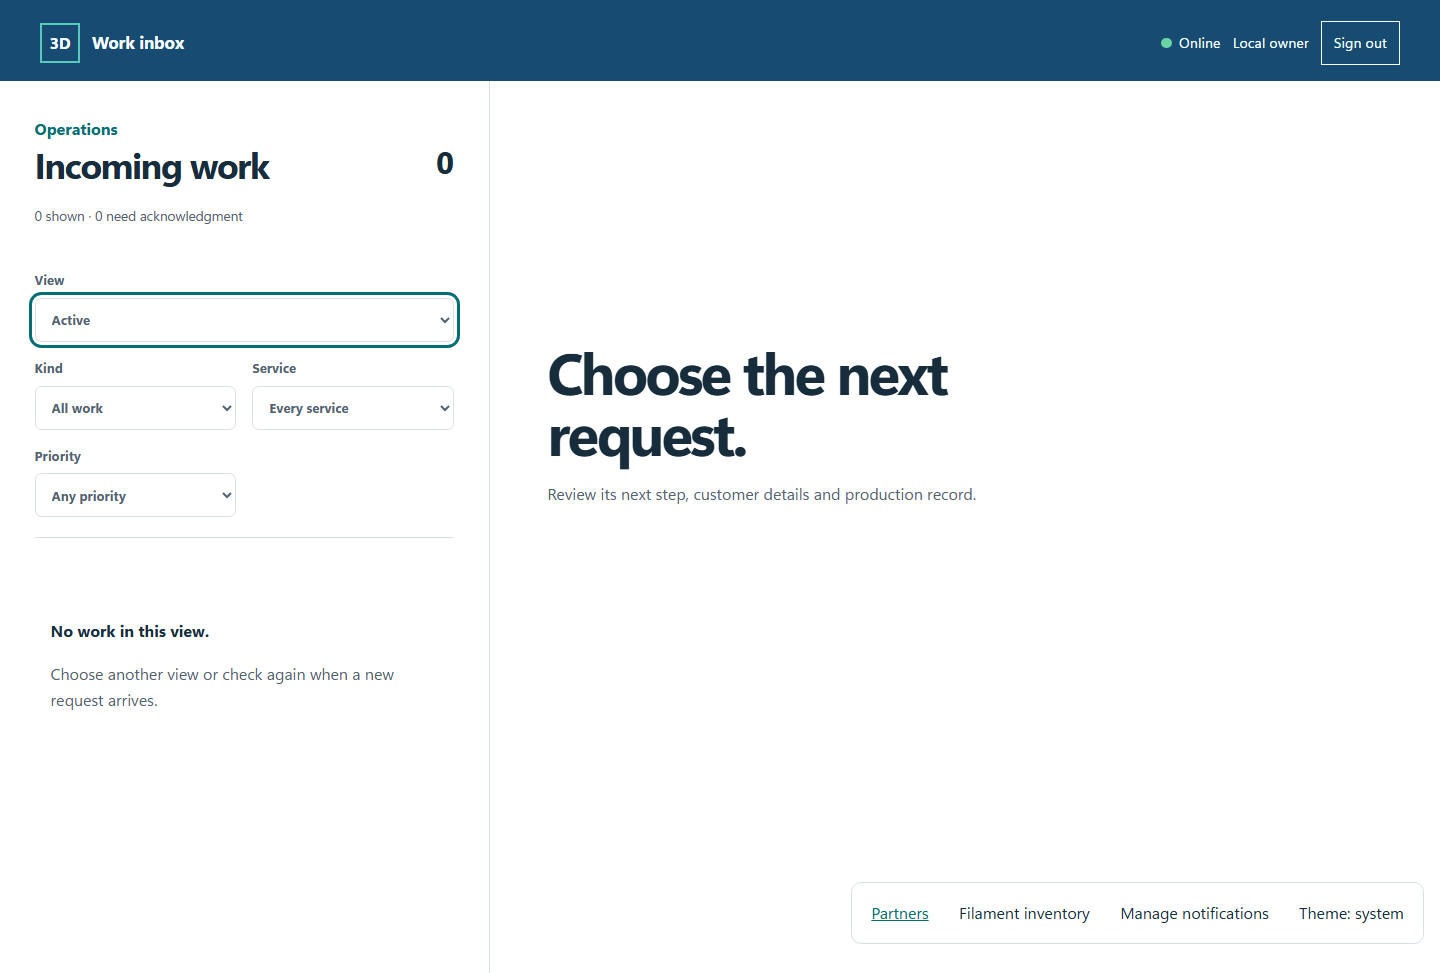
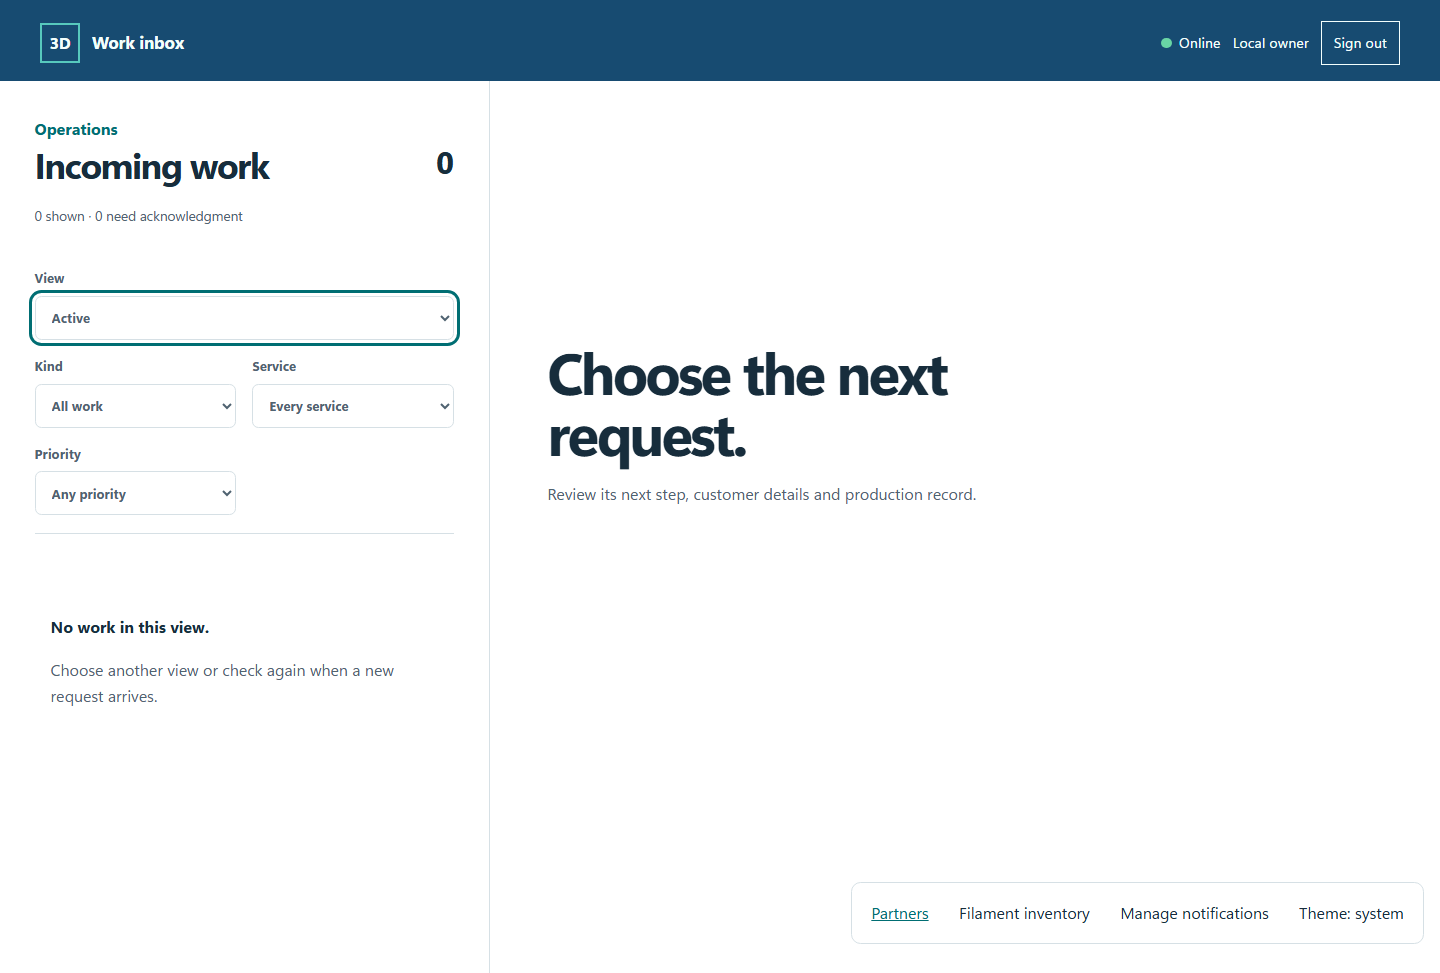
Keep work filters compact within the roomier portal layout

Changed region(s): [[0.0, 0.2775, 0.3125, 0.4317], [0.0312, 0.6166, 0.2812, 0.74], [0.0312, 0.4625, 0.1562, 0.555]]

diff --git a/operator/assets/operator.css b/operator/assets/operator.css
@@ -79,7 +79,7 @@ body{line-height:1.65}
 .topbar{padding-block:1rem;row-gap:.75rem}
 .queue{padding:clamp(1.25rem,2.4vw,2.5rem);padding-bottom:8rem}
 .queue-heading{gap:1.5rem}.queue-summary{margin-block:1rem 1.5rem;max-width:60ch}
-.filters{gap:1rem;padding-block:1.25rem;margin-bottom:1rem}
+.filters{gap:1rem;padding-block:1.125rem;margin-bottom:1rem}
 .filters label{line-height:1.5}.filters select{margin-top:.5rem;padding:.65rem .75rem;border-radius:var(--portal-radius)}
 .work-list li{padding-block:1.5rem}.work-row{gap:.5rem;padding:.25rem}.work-meta{line-height:1.6}
 .detail{padding:clamp(1.5rem,4vw,4.5rem);padding-bottom:8rem}

diff --git a/operator/qa-assets/operator.css b/operator/qa-assets/operator.css
@@ -79,7 +79,7 @@ body{line-height:1.65}
 .topbar{padding-block:1rem;row-gap:.75rem}
 .queue{padding:clamp(1.25rem,2.4vw,2.5rem);padding-bottom:8rem}
 .queue-heading{gap:1.5rem}.queue-summary{margin-block:1rem 1.5rem;max-width:60ch}
-.filters{gap:1rem;padding-block:1.25rem;margin-bottom:1rem}
+.filters{gap:1rem;padding-block:1.125rem;margin-bottom:1rem}
 .filters label{line-height:1.5}.filters select{margin-top:.5rem;padding:.65rem .75rem;border-radius:var(--portal-radius)}
 .work-list li{padding-block:1.5rem}.work-row{gap:.5rem;padding:.25rem}.work-meta{line-height:1.6}
 .detail{padding:clamp(1.5rem,4vw,4.5rem);padding-bottom:8rem}
